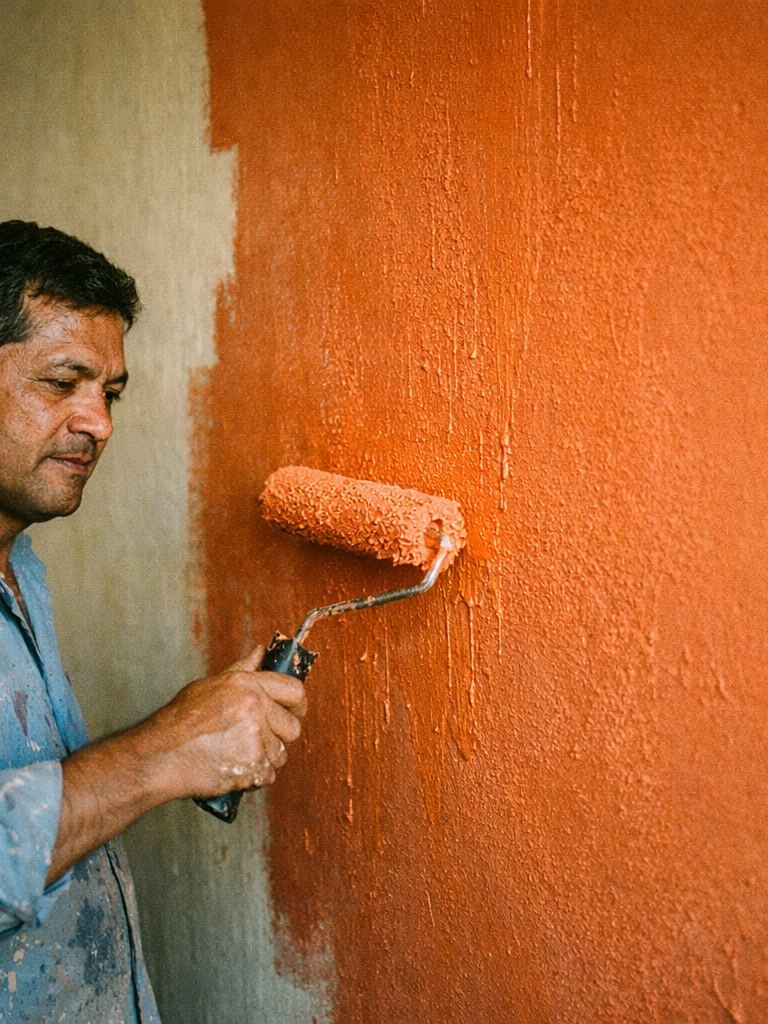
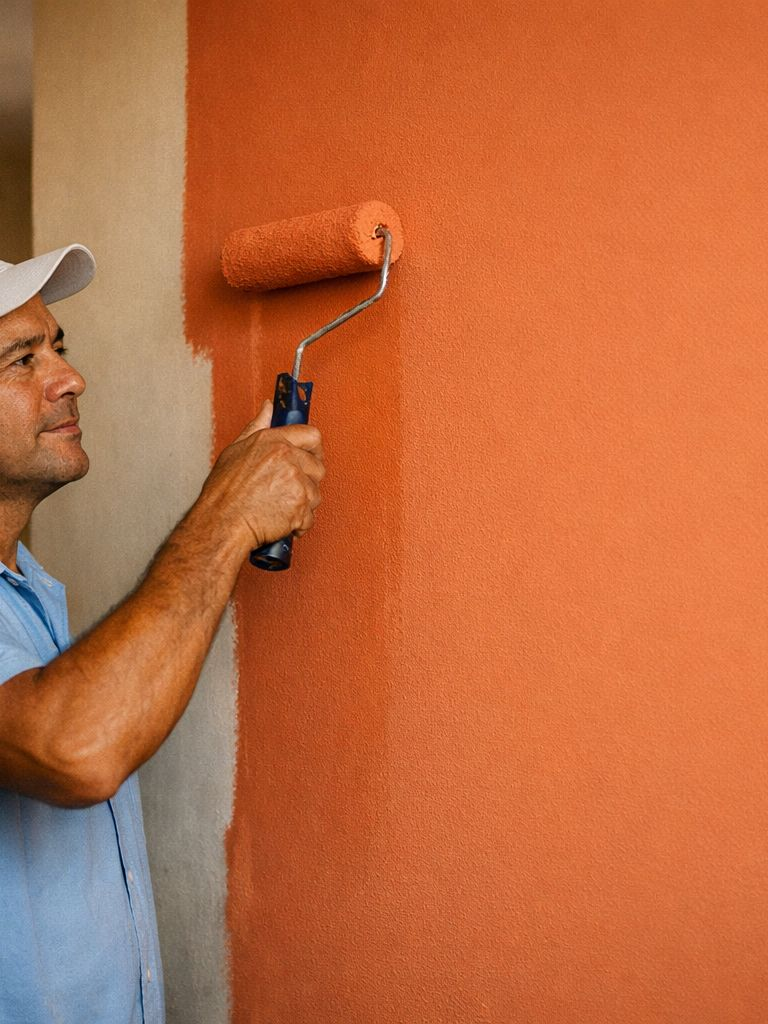
Home: ajustes da prévia — foto melhor, entrega via app, leque mais cheio
NÃO FAZ DEPLOY — ainda em prévia.

- Foto do pintor regenerada: acabamento liso e uniforme (a v1 tinha
  textura de reboco, parecia parede malfeita); pintor com visual mais
  competente
- Slide 2 do banner trocado por completo: não afirma mais que a loja
  entrega (frota própria em teste de descontinuação pelos sócios).
  Virou um banner gráfico 'Entregas disponíveis via app' com badges do
  Uber e Lalamove (ícone + cor da marca — não é o logo oficial deles,
  eu não tenho o arquivo vetorial; troco se o Kevin mandar)
- Mesma limpeza de 'a loja entrega' na faixa corrida, no passo 4 do
  'Como funciona', no card de vantagens e na FAQ (removida a pergunta
  'Quanto tempo demora a entrega?', que não fazia mais sentido)
- CLAUDE.md: registra o teste de descontinuação da entrega própria,
  pra nenhuma peça nova prometer 'a gente entrega' enquanto durar
  (não consegui escrever isso em _memoria/ — ver aviso pro Kevin)
- Leque de cores: painéis dos dois lados preenchem o vazio (+200
  cores, 5 linhas, orçamento grátis) e ganhou interação de verdade —
  toca numa cor e uma barra abaixo do leque mostra nome + amostra +
  botão 'Ver essa cor', funciona igual no celular (antes dependia de
  hover, que não existe no toque)
- Corrigido bug de instabilidade no hover (o chip subia e escapava do
  cursor, piscando) separando a rotação do leque (fixa) do efeito de
  subir ao passar o mouse (só visual, não move a área clicável)
[…]

diff --git a/site/index.html b/site/index.html
@@ -123,25 +123,51 @@
     @media (max-width: 900px) { .banner-can { display: none; } }
     .banner-arrow { position: absolute; top: 50%; transform: translateY(-50%); background: rgba(0,0,0,.25); border: none; color: #fff; width: 44px; height: 44px; border-radius: 50%; cursor: pointer; font-size: 26px; z-index: 10; transition: background .2s; display: flex; align-items: center; justify-content: center; }
     .banner-arrow:hover { background: rgba(0,0,0,.48); }
+    .banner-slide--graphic { background: radial-gradient(circle at 82% 30%, #123a86 0%, var(--blue-dark) 55%, #04193e 100%); overflow: hidden; }
+    .banner-slide--graphic::before, .banner-slide--graphic::after { content: ''; position: absolute; border-radius: 50%; opacity: .16; }
+    .banner-slide--graphic::before { width: 420px; height: 420px; background: var(--yellow); top: -140px; right: -100px; }
+    .banner-slide--graphic::after { width: 280px; height: 280px; background: #fff; bottom: -120px; right: 22%; opacity: .06; }
+    .banner-app-badges { display: flex; gap: 14px; margin-top: 22px; flex-wrap: wrap; }
+    .banner-app-badge { display: inline-flex; align-items: center; gap: 8px; padding: 10px 18px; border-radius: 50px; font-family: 'Montserrat', sans-serif; font-weight: 700; font-size: 14px; color: #fff; box-shadow: 0 6px 16px rgba(0,0,0,.25); }
+    .banner-app-badge--uber { background: #000; }
+    .banner-app-badge--lalamove { background: #FF6900; }
+    .banner-app-badge svg { width: 18px; height: 18px; flex-shrink: 0; }
 
     /* LEQUE DE CORES */
-    .color-fan-section { background: var(--blue); padding: 64px 0 56px; overflow: hidden; }
-    .color-fan-header { text-align: center; max-width: 560px; margin: 0 auto 8px; }
+    .color-fan-section { background: var(--blue); padding: 64px 0 56px; overflow: hidden; position: relative; }
+    .color-fan-section::before { content: ''; position: absolute; inset: 0; background-image: radial-gradient(rgba(255,255,255,.06) 1px, transparent 1px); background-size: 26px 26px; opacity: .5; pointer-events: none; }
+    .color-fan-header { text-align: center; max-width: 560px; margin: 0 auto 8px; position: relative; }
     .color-fan-header .section-label { color: var(--yellow); }
     .color-fan-header .section-title { color: #fff; }
     .color-fan-header .section-sub { color: rgba(255,255,255,.75); }
-    .fan-wrap { position: relative; height: clamp(230px, 34vw, 340px); margin-top: 28px; display: flex; justify-content: center; }
+    .fan-layout { display: grid; grid-template-columns: 1fr minmax(auto, 720px) 1fr; align-items: center; gap: 16px; margin-top: 32px; position: relative; }
+    .fan-side { display: flex; flex-direction: column; gap: 14px; }
+    .fan-stat { background: rgba(255,255,255,.07); border: 1px solid rgba(255,255,255,.12); border-radius: 12px; padding: 14px 16px; backdrop-filter: blur(2px); }
+    .fan-stat-num { font-family: 'Montserrat', sans-serif; font-weight: 800; font-size: 22px; color: var(--yellow); line-height: 1; }
+    .fan-stat-label { font-family: 'Poppins', sans-serif; font-size: 12px; color: rgba(255,255,255,.8); margin-top: 4px; }
+    .fan-side--right .fan-stat { text-align: right; }
+    @media (max-width: 980px) { .fan-layout { grid-template-columns: 1fr; } .fan-side { flex-direction: row; justify-content: center; } .fan-side--right { display: none; } .fan-side--left .fan-stat:nth-child(2) { display: none; } }
+    @media (max-width: 640px) { .fan-side--left { display: none; } }
+    .fan-wrap { position: relative; height: clamp(230px, 30vw, 340px); display: flex; justify-content: center; }
     .fan { position: relative; width: 100%; max-width: 720px; height: 100%; }
-    .fan-chip { position: absolute; left: 50%; bottom: 6px; width: 58px; height: clamp(180px, 26vw, 260px); margin-left: -29px; border-radius: 14px 14px 5px 5px; transform-origin: 50% 100%; transform: rotate(0deg); box-shadow: 0 6px 18px rgba(0,0,0,.28), inset 0 0 0 1px rgba(255,255,255,.15); transition: transform .6s cubic-bezier(.2,.8,.2,1), box-shadow .25s, filter .25s; display: flex; align-items: flex-end; justify-content: center; padding-bottom: 10px; text-decoration: none; }
-    .color-fan-section.in-view .fan-chip { transform: rotate(var(--r)); }
-    .fan-chip:hover, .fan-chip:focus-visible { transform: rotate(var(--r)) translateY(-26px) !important; box-shadow: 0 14px 26px rgba(0,0,0,.4), inset 0 0 0 1px rgba(255,255,255,.25); z-index: 5; filter: brightness(1.04); }
+    /* Slot: fica parado no lugar (dono da rotação/posição) — nunca se move no hover,
+       senão o cursor "escapa" do elemento quando ele sobe e fica piscando. */
+    .fan-chip-slot { position: absolute; left: 50%; bottom: 6px; width: 58px; height: clamp(180px, 24vw, 260px); margin-left: -29px; transform-origin: 50% 100%; transform: rotate(0deg); transition: transform .6s cubic-bezier(.2,.8,.2,1); }
+    .color-fan-section.in-view .fan-chip-slot { transform: rotate(var(--r)); }
+    /* Inner: é quem visualmente sobe/brilha no hover, dentro do slot parado */
+    .fan-chip-inner { position: absolute; inset: 0; width: 100%; height: 100%; border-radius: 14px 14px 5px 5px; border: none; cursor: pointer; box-shadow: 0 6px 18px rgba(0,0,0,.28), inset 0 0 0 1px rgba(255,255,255,.15); transition: transform .25s, box-shadow .25s, filter .25s; display: flex; align-items: flex-end; justify-content: center; padding-bottom: 10px; }
+    .fan-chip-slot:hover .fan-chip-inner, .fan-chip-slot:focus-within .fan-chip-inner, .fan-chip-inner.selected { transform: translateY(-26px); box-shadow: 0 14px 26px rgba(0,0,0,.4), inset 0 0 0 1px rgba(255,255,255,.25); z-index: 5; filter: brightness(1.04); }
     .fan-chip-label { font-family: 'Poppins', sans-serif; font-weight: 600; font-size: 10.5px; color: #fff; text-shadow: 0 1px 3px rgba(0,0,0,.35); background: rgba(0,0,0,.16); padding: 3px 6px; border-radius: 20px; white-space: nowrap; opacity: 0; transform: translateY(4px); transition: opacity .2s, transform .2s; }
-    .fan-chip:hover .fan-chip-label, .fan-chip:focus-visible .fan-chip-label { opacity: 1; transform: translateY(0); }
-    .fan-chip--dark .fan-chip-label { color: #212529; text-shadow: none; background: rgba(255,255,255,.55); }
-    @media (max-width: 640px) { .fan-chip { width: 40px; margin-left: -20px; } .fan-chip-label { display: none; } }
-    .fan-cta { text-align: center; margin-top: 12px; }
-    .fan-cta a { color: #fff; font-family: 'Montserrat', sans-serif; font-weight: 700; font-size: 13px; text-decoration: underline; text-underline-offset: 3px; opacity: .9; }
-    .fan-hint { text-align: center; color: rgba(255,255,255,.55); font-size: 12px; margin-top: 4px; font-family: 'Poppins', sans-serif; }
+    .fan-chip-slot:hover .fan-chip-label, .fan-chip-slot:focus-within .fan-chip-label, .fan-chip-inner.selected .fan-chip-label { opacity: 1; transform: translateY(0); }
+    .fan-chip-inner.fan-chip--dark .fan-chip-label { color: #212529; text-shadow: none; background: rgba(255,255,255,.55); }
+    @media (max-width: 640px) { .fan-chip-slot { width: 42px; margin-left: -21px; } .fan-chip-label { display: none; } }
+    .fan-detail { display: flex; align-items: center; justify-content: center; gap: 12px; max-width: 420px; margin: 24px auto 0; background: rgba(255,255,255,.08); border: 1px solid rgba(255,255,255,.16); border-radius: 50px; padding: 8px 8px 8px 18px; transition: background .2s; }
+    .fan-detail.is-filled { background: rgba(255,255,255,.14); }
+    .fan-detail-swatch { width: 22px; height: 22px; border-radius: 50%; background: rgba(255,255,255,.25); flex-shrink: 0; box-shadow: inset 0 0 0 2px rgba(255,255,255,.4); transition: background .2s; }
+    .fan-detail-name { flex: 1; font-family: 'Poppins', sans-serif; font-size: 13px; color: rgba(255,255,255,.85); }
+    .fan-detail-btn { font-family: 'Montserrat', sans-serif; font-weight: 700; font-size: 12.5px; background: var(--yellow); color: var(--graphite); padding: 9px 16px; border-radius: 50px; white-space: nowrap; opacity: .5; pointer-events: none; transition: opacity .2s; }
+    .fan-detail.is-filled .fan-detail-btn { opacity: 1; pointer-events: auto; }
+    .fan-hint { text-align: center; color: rgba(255,255,255,.5); font-size: 12px; margin-top: 10px; font-family: 'Poppins', sans-serif; }
     .banner-prev { left: 16px; }
     .banner-next { right: 16px; }
     @media (max-width: 768px) { .banner-arrow { display: none; } }
@@ -576,19 +602,24 @@
       </div>
     </div>
 
-    <!-- Slide 2: Entregas rápidas -->
-    <div class="banner-slide">
-      <picture>
-        <source media="(max-width: 640px)" srcset="images/hero-novo/banner-entrega-mobile.jpg">
-        <img src="images/hero-novo/banner-entrega.jpg" alt="Entrega da Tintas Laet direto na porta do cliente" class="banner-img" loading="lazy">
-      </picture>
-      <div class="banner-scrim"></div>
+    <!-- Slide 2: Entrega via app -->
+    <div class="banner-slide banner-slide--graphic">
       <div class="banner-content">
         <div class="banner-text">
-          <span class="banner-eyebrow">Frete justo</span>
-          <h1 class="banner-title">Entrega rápida<br>no ABC e Zona Leste</h1>
-          <p class="banner-sub">Você pede, a gente leva até sua porta. Pague só na entrega.</p>
-          <a href="https://wa.me/5511977140964?text=Olá! Quero saber sobre entrega e frete." class="banner-cta" target="_blank" rel="noopener">💬 Consultar entrega</a>
+          <span class="banner-eyebrow">Receba em casa</span>
+          <h1 class="banner-title">Entregas disponíveis<br>via app</h1>
+          <p class="banner-sub">Compre com a gente e peça um motorista pra buscar e levar até você.</p>
+          <div class="banner-app-badges">
+            <span class="banner-app-badge banner-app-badge--uber">
+              <svg viewBox="0 0 24 24" fill="none" stroke="currentColor" stroke-width="2" stroke-linecap="round" stroke-linejoin="round"><path d="M3 13l2-5a2 2 0 0 1 2-1.4h10a2 2 0 0 1 2 1.4l2 5"/><path d="M3 13h18v4a1 1 0 0 1-1 1h-1a1 1 0 0 1-1-1v-1H6v1a1 1 0 0 1-1 1H4a1 1 0 0 1-1-1v-4z"/><circle cx="7.5" cy="17.5" r="1.2"/><circle cx="16.5" cy="17.5" r="1.2"/></svg>
+              Uber
+            </span>
+            <span class="banner-app-badge banner-app-badge--lalamove">
+              <svg viewBox="0 0 24 24" fill="none" stroke="currentColor" stroke-width="2" stroke-linecap="round" stroke-linejoin="round"><path d="M21 8l-9-5-9 5 9 5 9-5z"/><path d="M3 8v8l9 5 9-5V8"/><path d="M12 13v8"/></svg>
+              Lalamove
+            </span>
+          </div>
+          <a href="https://wa.me/5511977140964?text=Olá! Como funciona a entrega por Uber/Lalamove?" class="banner-cta" target="_blank" rel="noopener" style="margin-top:18px">💬 Como funciona</a>
         </div>
       </div>
     </div>
@@ -619,13 +650,13 @@
 <!-- STRIP -->
 <div class="strip" aria-hidden="true">
   <div class="strip-track">
-    <span class="strip-item">🚚 Entrega no ABC e Zona Leste</span><span class="strip-dot"></span>
+    <span class="strip-item">🚗 Peça por Uber ou Lalamove</span><span class="strip-dot"></span>
     <span class="strip-item">💰 Menor preço do mercado</span><span class="strip-dot"></span>
     <span class="strip-item">💳 Até 12x sem juros no cartão</span><span class="strip-dot"></span>
     <span class="strip-item">💧 100% tintas base água</span><span class="strip-dot"></span>
     <span class="strip-item">🤝 Atendimento humano</span><span class="strip-dot"></span>
     <span class="strip-item">🏠 Pague só na entrega</span><span class="strip-dot"></span>
-    <span class="strip-item">🚚 Entrega no ABC e Zona Leste</span><span class="strip-dot"></span>
+    <span class="strip-item">🚗 Peça por Uber ou Lalamove</span><span class="strip-dot"></span>
     <span class="strip-item">💰 Menor preço do mercado</span><span class="strip-dot"></span>
     <span class="strip-item">💳 Até 12x sem juros no cartão</span><span class="strip-dot"></span>
     <span class="strip-item">💧 100% tintas base água</span><span class="strip-dot"></span>
@@ -642,59 +673,117 @@
       <h2 class="section-title">Escolha sua cor</h2>
       <p class="section-sub">Toque numa cor do leque pra ver ela no catálogo completo.</p>
     </div>
-    <div class="fan-wrap">
+    <div class="fan-layout">
+      <div class="fan-side fan-side--left">
+        <div class="fan-stat">
+          <div class="fan-stat-num">200+</div>
+          <div class="fan-stat-label">cores reais catalogadas, em 5 linhas de tinta</div>
+        </div>
+        <div class="fan-stat">
+          <div class="fan-stat-num">Sem filtro</div>
+          <div class="fan-stat-label">a cor que você vê no leque é a que sai na lata</div>
+        </div>
+      </div>
+      <div class="fan-wrap">
       <div class="fan" id="colorFan">
-          <a class="fan-chip" style="--r:-52.5deg;background:#FF3C00" href="produto.html?id=premium-lavavel#cores">
-            <span class="fan-chip-label">Fogo Violeta</span>
-          </a>
-          <a class="fan-chip" style="--r:-45.5deg;background:#DD5047" href="produto.html?id=premium-lavavel#cores">
-            <span class="fan-chip-label">Romã</span>
-          </a>
-          <a class="fan-chip" style="--r:-38.5deg;background:#B43B4C" href="produto.html?id=esmalte-ecologico#cores">
-            <span class="fan-chip-label">Vermelho</span>
-          </a>
-          <a class="fan-chip fan-chip--dark" style="--r:-31.5deg;background:#FAA628" href="produto.html?id=premium-lavavel#cores">
-            <span class="fan-chip-label">Lícor de Laranja</span>
-          </a>
-          <a class="fan-chip fan-chip--dark" style="--r:-24.5deg;background:#FAE554" href="produto.html?id=premium-lavavel#cores">
-            <span class="fan-chip-label">Amarelo Albertino</span>
-          </a>
-          <a class="fan-chip fan-chip--dark" style="--r:-17.5deg;background:#91E867" href="produto.html?id=premium-lavavel#cores">
-            <span class="fan-chip-label">Verde Limão</span>
-          </a>
-          <a class="fan-chip" style="--r:-10.5deg;background:#4FAF65" href="produto.html?id=premium-lavavel#cores">
-            <span class="fan-chip-label">Ilha de Esmeralda</span>
-          </a>
-          <a class="fan-chip" style="--r:-3.5deg;background:#1E6B37" href="produto.html?id=esmalte-ecologico#cores">
-            <span class="fan-chip-label">Verde Folha</span>
-          </a>
-          <a class="fan-chip fan-chip--dark" style="--r:3.5deg;background:#65CFC0" href="produto.html?id=esmalte-ecologico#cores">
-            <span class="fan-chip-label">Verde Caribe</span>
-          </a>
-          <a class="fan-chip" style="--r:10.5deg;background:#3C93F8" href="produto.html?id=premium-lavavel#cores">
-            <span class="fan-chip-label">Paraíso do Mar</span>
-          </a>
-          <a class="fan-chip" style="--r:17.5deg;background:#405261" href="produto.html?id=esmalte-ecologico#cores">
-            <span class="fan-chip-label">Azul Del Rey</span>
-          </a>
-          <a class="fan-chip" style="--r:24.5deg;background:#A776DB" href="produto.html?id=premium-lavavel#cores">
-            <span class="fan-chip-label">Uva Doce</span>
-          </a>
-          <a class="fan-chip" style="--r:31.5deg;background:#42295B" href="produto.html?id=premium-lavavel#cores">
-            <span class="fan-chip-label">Suntuoso</span>
-          </a>
-          <a class="fan-chip" style="--r:38.5deg;background:#D66CAC" href="produto.html?id=premium-lavavel#cores">
-            <span class="fan-chip-label">Bordô</span>
-          </a>
-          <a class="fan-chip fan-chip--dark" style="--r:45.5deg;background:#FD7E98" href="produto.html?id=premium-lavavel#cores">
-            <span class="fan-chip-label">Flamingo Real</span>
-          </a>
-          <a class="fan-chip" style="--r:52.5deg;background:#A47B69" href="produto.html?id=premium-lavavel#cores">
-            <span class="fan-chip-label">Cobre Suave</span>
-          </a>
+          <div class="fan-chip-slot" style="--r:-52.5deg">
+            <button type="button" class="fan-chip-inner" style="background:#FF3C00" data-nome="Fogo Violeta" data-href="produto.html?id=premium-lavavel#cores">
+              <span class="fan-chip-label">Fogo Violeta</span>
+            </button>
+          </div>
+          <div class="fan-chip-slot" style="--r:-45.5deg">
+            <button type="button" class="fan-chip-inner" style="background:#DD5047" data-nome="Romã" data-href="produto.html?id=premium-lavavel#cores">
+              <span class="fan-chip-label">Romã</span>
+            </button>
+          </div>
+          <div class="fan-chip-slot" style="--r:-38.5deg">
+            <button type="button" class="fan-chip-inner" style="background:#B43B4C" data-nome="Vermelho" data-href="produto.html?id=esmalte-ecologico#cores">
+              <span class="fan-chip-label">Vermelho</span>
+            </button>
+          </div>
+          <div class="fan-chip-slot" style="--r:-31.5deg">
+            <button type="button" class="fan-chip-inner fan-chip--dark" style="background:#FAA628" data-nome="Lícor de Laranja" data-href="produto.html?id=premium-lavavel#cores">
+              <span class="fan-chip-label">Lícor de Laranja</span>
+            </button>
+          </div>
+          <div class="fan-chip-slot" style="--r:-24.5deg">
+            <button type="button" class="fan-chip-inner fan-chip--dark" style="background:#FAE554" data-nome="Amarelo Albertino" data-href="produto.html?id=premium-lavavel#cores">
+              <span class="fan-chip-label">Amarelo Albertino</span>
+            </button>
+          </div>
+          <div class="fan-chip-slot" style="--r:-17.5deg">
+            <button type="button" class="fan-chip-inner fan-chip--dark" style="background:#91E867" data-nome="Verde Limão" data-href="produto.html?id=premium-lavavel#cores">
+              <span class="fan-chip-label">Verde Limão</span>
+            </button>
+          </div>
+          <div class="fan-chip-slot" style="--r:-10.5deg">
+            <button type="button" class="fan-chip-inner" style="background:#4FAF65" data-nome="Ilha de Esmeralda" data-href="produto.html?id=premium-lavavel#cores">
+              <span class="fan-chip-label">Ilha de Esmeralda</span>
+            </button>
+          </div>
+          <div class="fan-chip-slot" style="--r:-3.5deg">
+            <button type="button" class="fan-chip-inner" style="background:#1E6B37" data-nome="Verde Folha" data-href="produto.html?id=esmalte-ecologico#cores">
+              <span class="fan-chip-label">Verde Folha</span>
+            </button>
+          </div>
+          <div class="fan-chip-slot" style="--r:3.5deg">
+            <button type="button" class="fan-chip-inner fan-chip--dark" style="background:#65CFC0" data-nome="Verde Caribe" data-href="produto.html?id=esmalte-ecologico#cores">
+              <span class="fan-chip-label">Verde Caribe</span>
+            </button>
+          </div>
+          <div class="fan-chip-slot" style="--r:10.5deg">
+            <button type="button" class="fan-chip-inner" style="background:#3C93F8" data-nome="Paraíso do Mar" data-href="produto.html?id=premium-lavavel#cores">
+              <span class="fan-chip-label">Paraíso do Mar</span>
+            </button>
+          </div>
+          <div class="fan-chip-slot" style="--r:17.5deg">
+            <button type="button" class="fan-chip-inner" style="background:#405261" data-nome="Azul Del Rey" data-href="produto.html?id=esmalte-ecologico#cores">
+              <span class="fan-chip-label">Azul Del Rey</span>
+            </button>
+          </div>
+          <div class="fan-chip-slot" style="--r:24.5deg">
+            <button type="button" class="fan-chip-inner" style="background:#A776DB" data-nome="Uva Doce" data-href="produto.html?id=premium-lavavel#cores">
+              <span class="fan-chip-label">Uva Doce</span>
+            </button>
+          </div>
+          <div class="fan-chip-slot" style="--r:31.5deg">
+            <button type="button" class="fan-chip-inner" style="background:#42295B" data-nome="Suntuoso" data-href="produto.html?id=premium-lavavel#cores">
+              <span class="fan-chip-label">Suntuoso</span>
+            </button>
+          </div>
+          <div class="fan-chip-slot" style="--r:38.5deg">
+            <button type="button" class="fan-chip-inner" style="background:#D66CAC" data-nome="Bordô" data-href="produto.html?id=premium-lavavel#cores">
+              <span class="fan-chip-label">Bordô</span>
+            </button>
+          </div>
+          <div class="fan-chip-slot" style="--r:45.5deg">
+            <button type="button" class="fan-chip-inner fan-chip--dark" style="background:#FD7E98" data-nome="Flamingo Real" data-href="produto.html?id=premium-lavavel#cores">
+              <span class="fan-chip-label">Flamingo Real</span>
+            </button>
+          </div>
+          <div class="fan-chip-slot" style="--r:52.5deg">
+            <button type="button" class="fan-chip-inner" style="background:#A47B69" data-nome="Cobre Suave" data-href="produto.html?id=premium-lavavel#cores">
+              <span class="fan-chip-label">Cobre Suave</span>
+            </button>
+          </div>
+      </div>
+      </div>
+      <div class="fan-side fan-side--right">
+        <div class="fan-stat">
+          <div class="fan-stat-num">5</div>
+          <div class="fan-stat-label">linhas de tinta pra escolher a cor certa</div>
+        </div>
+        <div class="fan-stat">
+          <div class="fan-stat-num">Grátis</div>
+          <div class="fan-stat-label">manda foto da parede e a gente ajuda a escolher</div>
+        </div>
       </div>
     </div>
-    <div class="fan-cta"><a href="produtos.html">Ver o catálogo completo de cores →</a></div>
+    <div class="fan-detail" id="fanDetail">
+      <span class="fan-detail-swatch" id="fanDetailSwatch"></span>
+      <span class="fan-detail-name" id="fanDetailName">Toque numa cor do leque</span>
+      <a class="fan-detail-btn" id="fanDetailBtn" href="produtos.html">Ver essa cor →</a>
+    </div>
     <p class="fan-hint">Cores reais da Tintas Laet — o que você vê aqui é o que sai na tinta.</p>
   </div>
 </section>
@@ -768,8 +857,8 @@
       </div>
       <div class="step-card">
         <div class="step-num">4</div>
-        <div class="step-title">Entrega ou retirada</div>
-        <div class="step-desc">Receba em casa ou retire na loja — você escolhe!</div>
+        <div class="step-title">Retirada ou Uber/Lalamove</div>
+        <div class="step-desc">Retire na loja ou peça um motorista pra buscar e levar até você</div>
       </div>
       <div class="step-card">
         <div class="step-num">5</div>
@@ -1075,10 +1164,10 @@
             </div>
           </div>
           <div class="why-item">
-            <div class="why-item-icon">🚀</div>
+            <div class="why-item-icon">🚗</div>
             <div class="why-item-text">
-              <strong>Entrega rápida e frete justo</strong>
-              <p>Entregamos no ABC e Zona Leste com frete muito abaixo dos grandes e-commerces.</p>
+              <strong>Retirada fácil ou Uber/Lalamove</strong>
+              <p>Retire na loja mais perto de você ou peça um motorista pra buscar e levar até sua casa.</p>
             </div>
           </div>
           <div class="why-item">
@@ -1255,11 +1344,11 @@
     <div class="faq-list">
       <div class="faq-item">
         <button class="faq-question" onclick="toggleFaq(this)">
-          Quais regiões vocês entregam?
+          Vocês entregam?
           <span class="faq-icon">+</span>
         </button>
         <div class="faq-answer">
-          <p>Atendemos toda a região do Grande ABC (Santo André, São Bernardo, São Caetano, Mauá, Ribeirão Pires, Rio Grande da Serra e Diadema) e a Zona Leste de São Paulo. Consulte disponibilidade pelo WhatsApp informando seu CEP.</p>
+          <p>Não fazemos entrega própria no momento. Mas é fácil resolver: você compra na loja ou pelo WhatsApp e pede um Uber ou Lalamove pra buscar o produto e levar até você — a gente combina o horário de retirada.</p>
         </div>
       </div>
       <div class="faq-item">
@@ -1268,7 +1357,7 @@
           <span class="faq-icon">+</span>
         </button>
         <div class="faq-answer">
-          <p>O parcelamento em até 12x sem juros é feito no cartão de crédito na hora da entrega. Sem necessidade de pagar adiantado — o maquininha vai direto na sua porta junto com o produto.</p>
+          <p>O parcelamento em até 12x sem juros é feito no cartão de crédito na hora que você retira o produto. Sem necessidade de pagar adiantado — a maquininha está te esperando na loja (ou com o motorista, se você pediu por Uber/Lalamove).</p>
         </div>
       </div>
       <div class="faq-item">
@@ -1278,15 +1367,6 @@
         </button>
         <div class="faq-answer">
           <p>Sim! Você pode vir direto em qualquer uma das nossas 5 lojas em funcionamento: Sapopemba (Vila Bela/SP), Rua do Britador (Mauá), Av. Ayrton Senna (Mauá), Av. São Bernardo do Campo (Santo André) e Itapark (Mauá). Não é obrigatório agendar — mas recomendamos consultar o estoque disponível da loja pelo WhatsApp antes de vir. <a href="https://wa.me/5511977140964?text=Olá! Quero consultar o estoque antes de ir à loja." target="_blank" rel="noopener" style="display:inline-flex;align-items:center;gap:5px;background:#25D366;color:#fff;font-size:12px;font-family:'Montserrat',sans-serif;font-weight:700;padding:4px 12px;border-radius:50px;vertical-align:middle;white-space:nowrap">💬 Consultar estoque</a></p>
-        </div>
-      </div>
-      <div class="faq-item">
-        <button class="faq-question" onclick="toggleFaq(this)">
-          Quanto tempo demora a entrega?
-          <span class="faq-icon">+</span>
-        </button>
-        <div class="faq-answer">
-          <p>Geralmente entregamos em até 48 horas úteis após a confirmação do pedido. Em alguns casos, dependendo da disponibilidade de estoque e da região, pode ser ainda mais rápido. Consulte seu atendente.</p>
         </div>
       </div>
       <div class="faq-item">
@@ -1620,6 +1700,27 @@ document.querySelectorAll('.seller-card').forEach(card => {
     entries.forEach(e => { if (e.isIntersecting) { fanSection.classList.add('in-view'); obs.disconnect(); } });
   }, { threshold: .25 });
   obs.observe(fanSection);
+})();
+
+/* ── Leque de cores: seleção (funciona no touch e no mouse) ── */
+(function() {
+  const chips = document.querySelectorAll('.fan-chip-inner');
+  const detail = document.getElementById('fanDetail');
+  const swatch = document.getElementById('fanDetailSwatch');
+  const name = document.getElementById('fanDetailName');
+  const btn = document.getElementById('fanDetailBtn');
+  if (!chips.length || !detail) return;
+  chips.forEach(chip => {
+    chip.addEventListener('click', () => {
+      chips.forEach(c => c.classList.remove('selected'));
+      chip.classList.add('selected');
+      const hex = getComputedStyle(chip).backgroundColor;
+      swatch.style.background = hex;
+      name.textContent = chip.dataset.nome;
+      btn.href = chip.dataset.href;
+      detail.classList.add('is-filled');
+    });
+  });
 })();
 
 /* ── Back to top ── */
